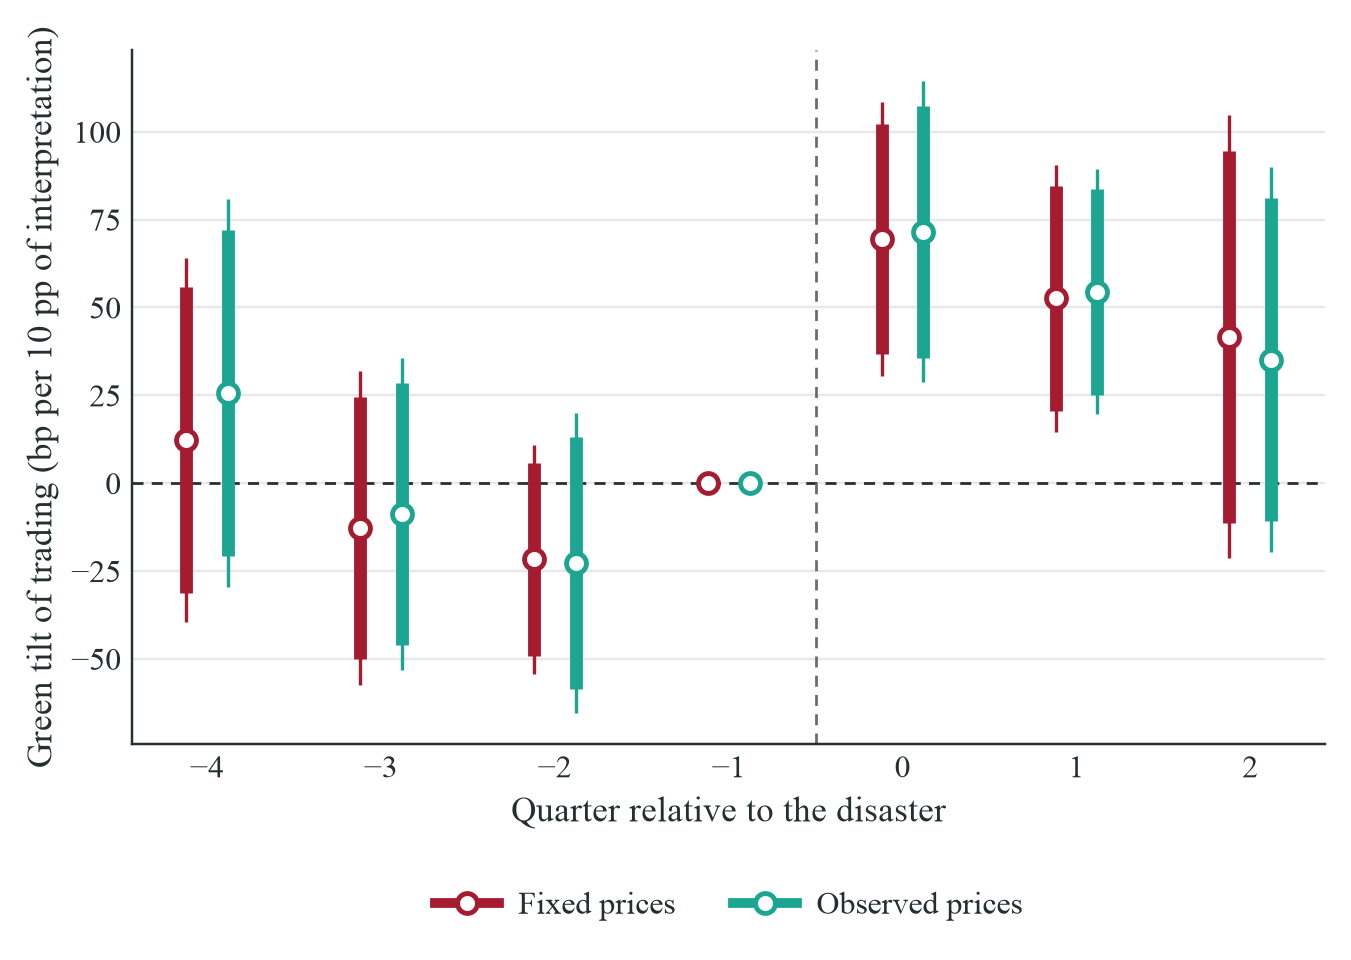
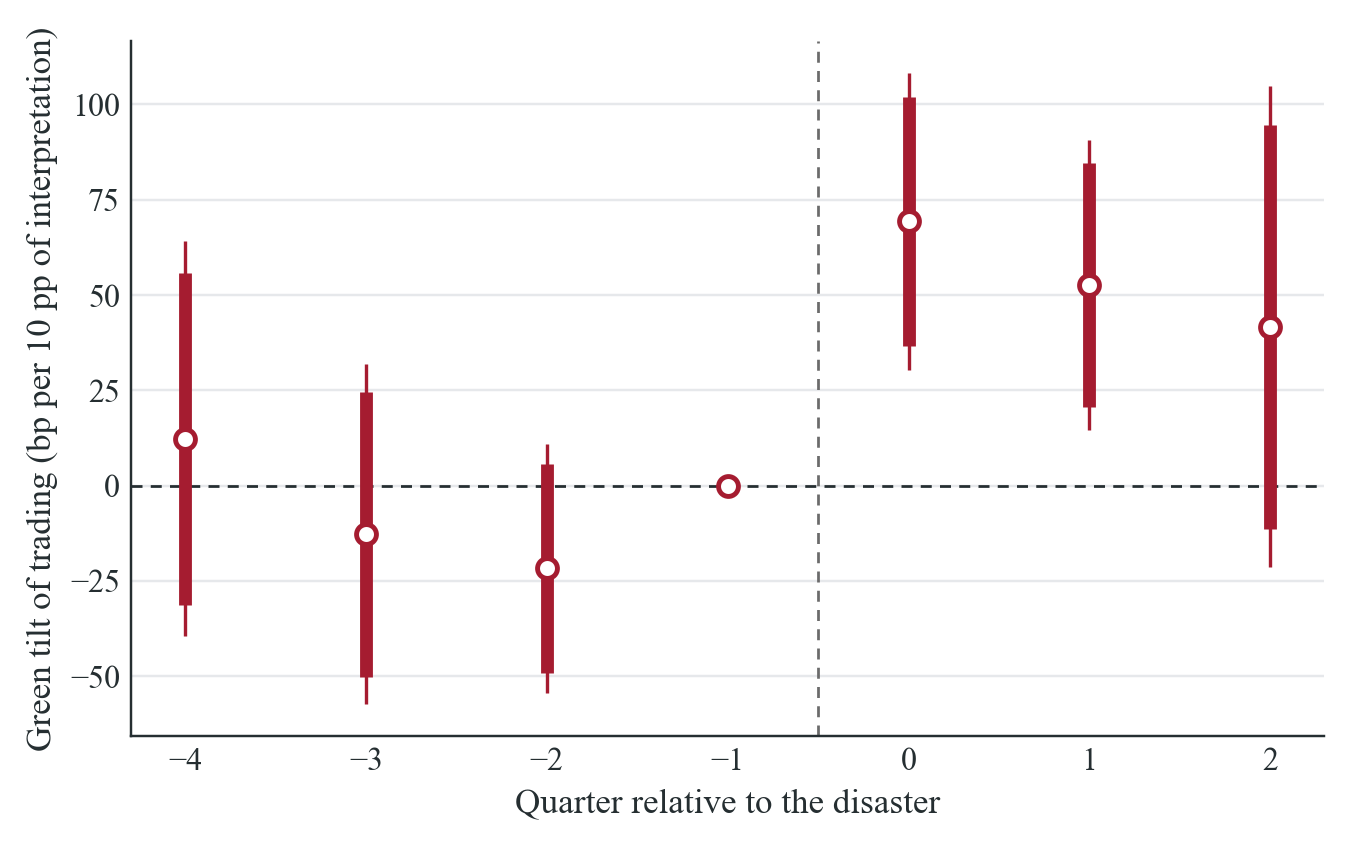
Drop mechanism figure; fund-manager path at fixed prices only; restore experiment coauthors

diff --git a/index.html b/index.html
@@ -70,7 +70,7 @@
         <div class="figure-carousel" id="jmp-carousel">
           <div class="carousel-controls">
             <button type="button" class="carousel-btn" onclick="moveSlide('jmp-carousel', -1)">&#10094; Previous</button>
-            <span class="carousel-count" id="jmp-carousel-count">1 / 9</span>
+            <span class="carousel-count" id="jmp-carousel-count">1 / 8</span>
             <button type="button" class="carousel-btn" onclick="moveSlide('jmp-carousel', 1)">Next &#10095;</button>
           </div>
           <figure class="figure-slide active">
@@ -95,11 +95,7 @@
           </figure>
           <figure class="figure-slide">
             <a href="figures/jmp/managers_green_tilt_path.png"><img src="figures/jmp/managers_green_tilt_path.png" alt="Green tilt of nearby fund managers' trading, by quarter" loading="lazy" /></a>
-            <figcaption><span class="figgroup">Fund managers&rsquo; tilt toward greener firms.</span> Effect of local climate interpretation on the green tilt of nearby fund managers&rsquo; trading, per ten percentage points of interpretation, by quarter relative to the disaster, at fixed and at observed prices.</figcaption>
-          </figure>
-          <figure class="figure-slide">
-            <a href="figures/jmp/beliefs_and_green_investment.png"><img src="figures/jmp/beliefs_and_green_investment.png" alt="Climate beliefs, green investment, and disaster responses" loading="lazy" /></a>
-            <figcaption><span class="figgroup">Mechanism: disasters, climate beliefs and portfolio holdings.</span> Climate beliefs, green investment, and disaster responses (Climate Change in the American Mind, 2009&ndash;2019). Panel A: association between a media market&rsquo;s belief shares and the green share of local advisers&rsquo; ETF holdings. Panel B: belief responses to a local disaster by ideology.</figcaption>
+            <figcaption><span class="figgroup">Fund managers&rsquo; tilt toward greener firms.</span> Effect of local climate interpretation on the green tilt of nearby fund managers&rsquo; trading, per ten percentage points of interpretation, by quarter relative to the disaster, at fixed prices.</figcaption>
           </figure>
           <figure class="figure-slide">
             <a href="figures/jmp/national_flows_attention_surprise.png"><img src="figures/jmp/national_flows_attention_surprise.png" alt="ESG minus other fund flows after a national attention surprise" loading="lazy" /></a>
@@ -109,7 +105,7 @@
             <a href="figures/jmp/gmb_response_news_surprises.png"><img src="figures/jmp/gmb_response_news_surprises.png" alt="Green-minus-brown stock return in the month of a news surprise, by news measure" loading="lazy" /></a>
             <figcaption><span class="figgroup">Green-minus-brown returns.</span> Monthly return of green minus brown stocks (P&aacute;stor, Stambaugh, and Taylor, 2022) in the month of a one-standard-deviation surprise in national disaster interpretation, the climate concern benchmark (MCCC, Ardia et al., 2023) and disaster attention, estimated jointly, November 2012&ndash;June 2018, with 95% intervals.</figcaption>
           </figure>
-          <div class="carousel-dots"><button type="button" class="dot active" onclick="goToSlide('jmp-carousel', 0)" aria-label="Figure 1"></button><button type="button" class="dot" onclick="goToSlide('jmp-carousel', 1)" aria-label="Figure 2"></button><button type="button" class="dot" onclick="goToSlide('jmp-carousel', 2)" aria-label="Figure 3"></button><button type="button" class="dot" onclick="goToSlide('jmp-carousel', 3)" aria-label="Figure 4"></button><button type="button" class="dot" onclick="goToSlide('jmp-carousel', 4)" aria-label="Figure 5"></button><button type="button" class="dot" onclick="goToSlide('jmp-carousel', 5)" aria-label="Figure 6"></button><button type="button" class="dot" onclick="goToSlide('jmp-carousel', 6)" aria-label="Figure 7"></button><button type="button" class="dot" onclick="goToSlide('jmp-carousel', 7)" aria-label="Figure 8"></button><button type="button" class="dot" onclick="goToSlide('jmp-carousel', 8)" aria-label="Figure 9"></button></div>
+          <div class="carousel-dots"><button type="button" class="dot active" onclick="goToSlide('jmp-carousel', 0)" aria-label="Figure 1"></button><button type="button" class="dot" onclick="goToSlide('jmp-carousel', 1)" aria-label="Figure 2"></button><button type="button" class="dot" onclick="goToSlide('jmp-carousel', 2)" aria-label="Figure 3"></button><button type="button" class="dot" onclick="goToSlide('jmp-carousel', 3)" aria-label="Figure 4"></button><button type="button" class="dot" onclick="goToSlide('jmp-carousel', 4)" aria-label="Figure 5"></button><button type="button" class="dot" onclick="goToSlide('jmp-carousel', 5)" aria-label="Figure 6"></button><button type="button" class="dot" onclick="goToSlide('jmp-carousel', 6)" aria-label="Figure 7"></button><button type="button" class="dot" onclick="goToSlide('jmp-carousel', 7)" aria-label="Figure 8"></button></div>
         </div>
         <p class="map-link"><a href="map/">Interactive map: news &rarr;</a> Climate interpretation of local disaster coverage by county and year, 2015&ndash;2024, with the floods, hurricanes, wildfires and coastal events that hit each county.<br /><a href="map/investors.html">Interactive map: investors and firms &rarr;</a> Local advisers&rsquo; green ETF holdings and fund managers&rsquo; E-pillar tilt by year, listed firms by environmental score or physical climate risk, and the same disaster episodes.<br /><a href="map/topics.html">Interactive chart: disaster coverage by category &rarr;</a> The composition of local and national disaster coverage by category, 2000&ndash;2024, from the article classifier behind the interpretation measure.</p>
       </section>
@@ -119,7 +115,7 @@
         <h3 class="paper-title">
           Are You Asking the Right Questions? An Experiment on Investors&rsquo; Demand for Information
         </h3>
-        <!-- COAUTHORS HIDDEN FOR NOW: <p class="paper-links">with Marcela Carvalho and Beatrice Ferrario</p> -->
+        <p class="paper-links">with Marcela Carvalho and Beatrice Ferrario</p>
 
         <h3 class="paper-title" style="margin-top: 28px;">
           The Structure of Disagreement: Belief Systems and Cultural Divides in the United States
